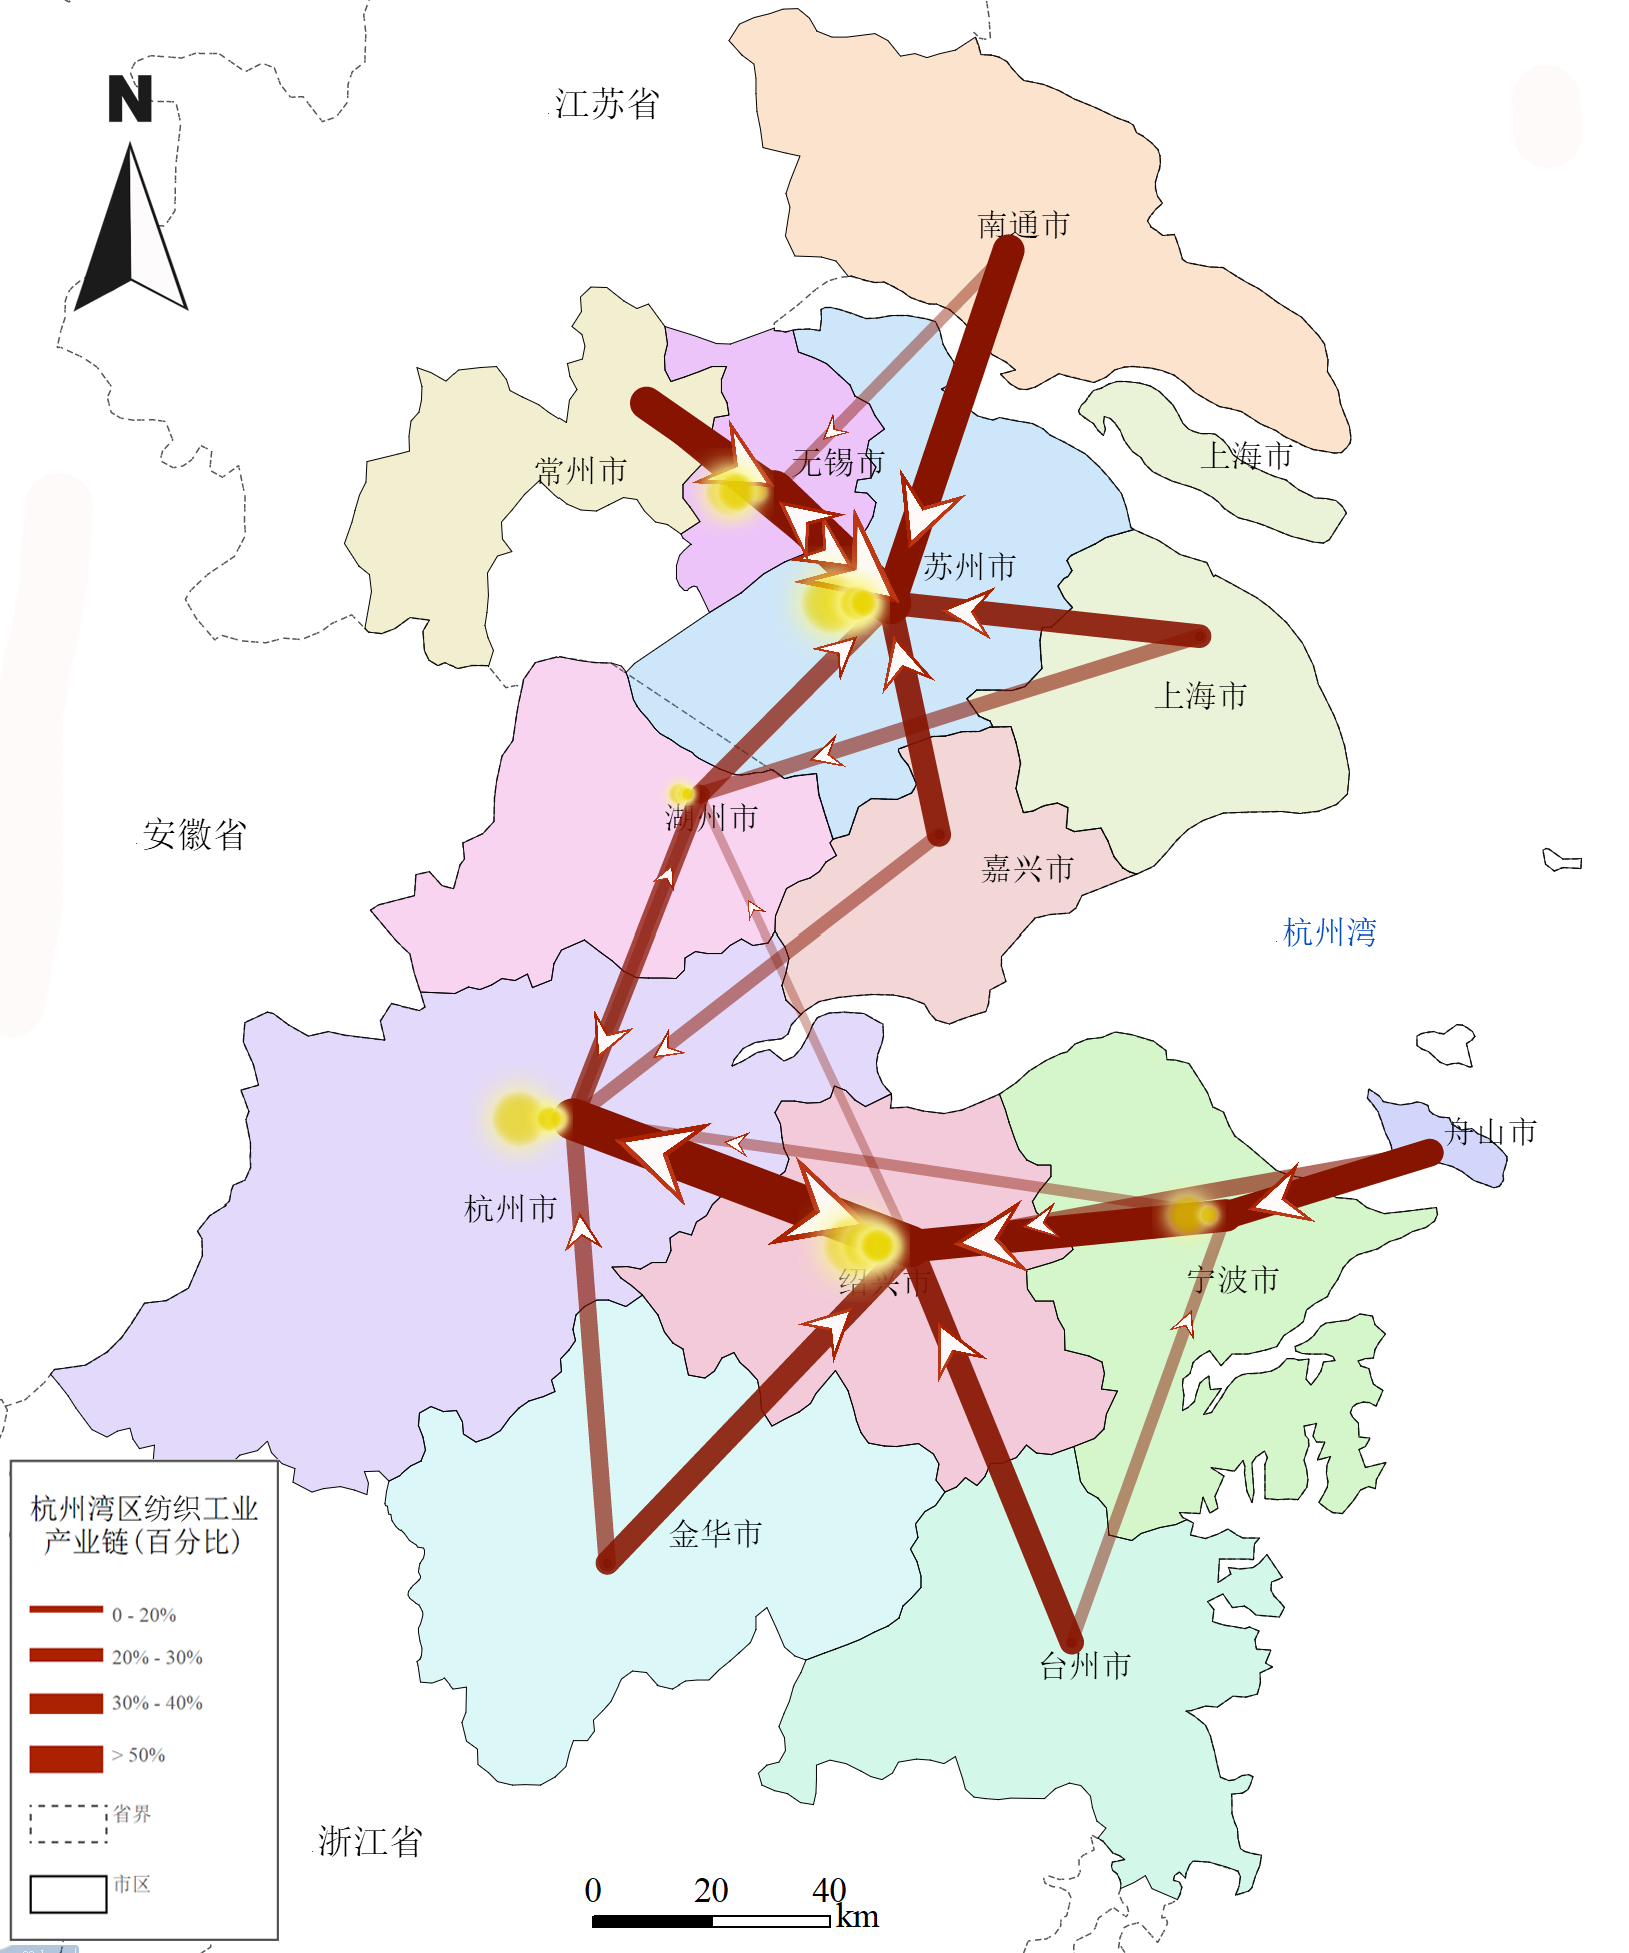
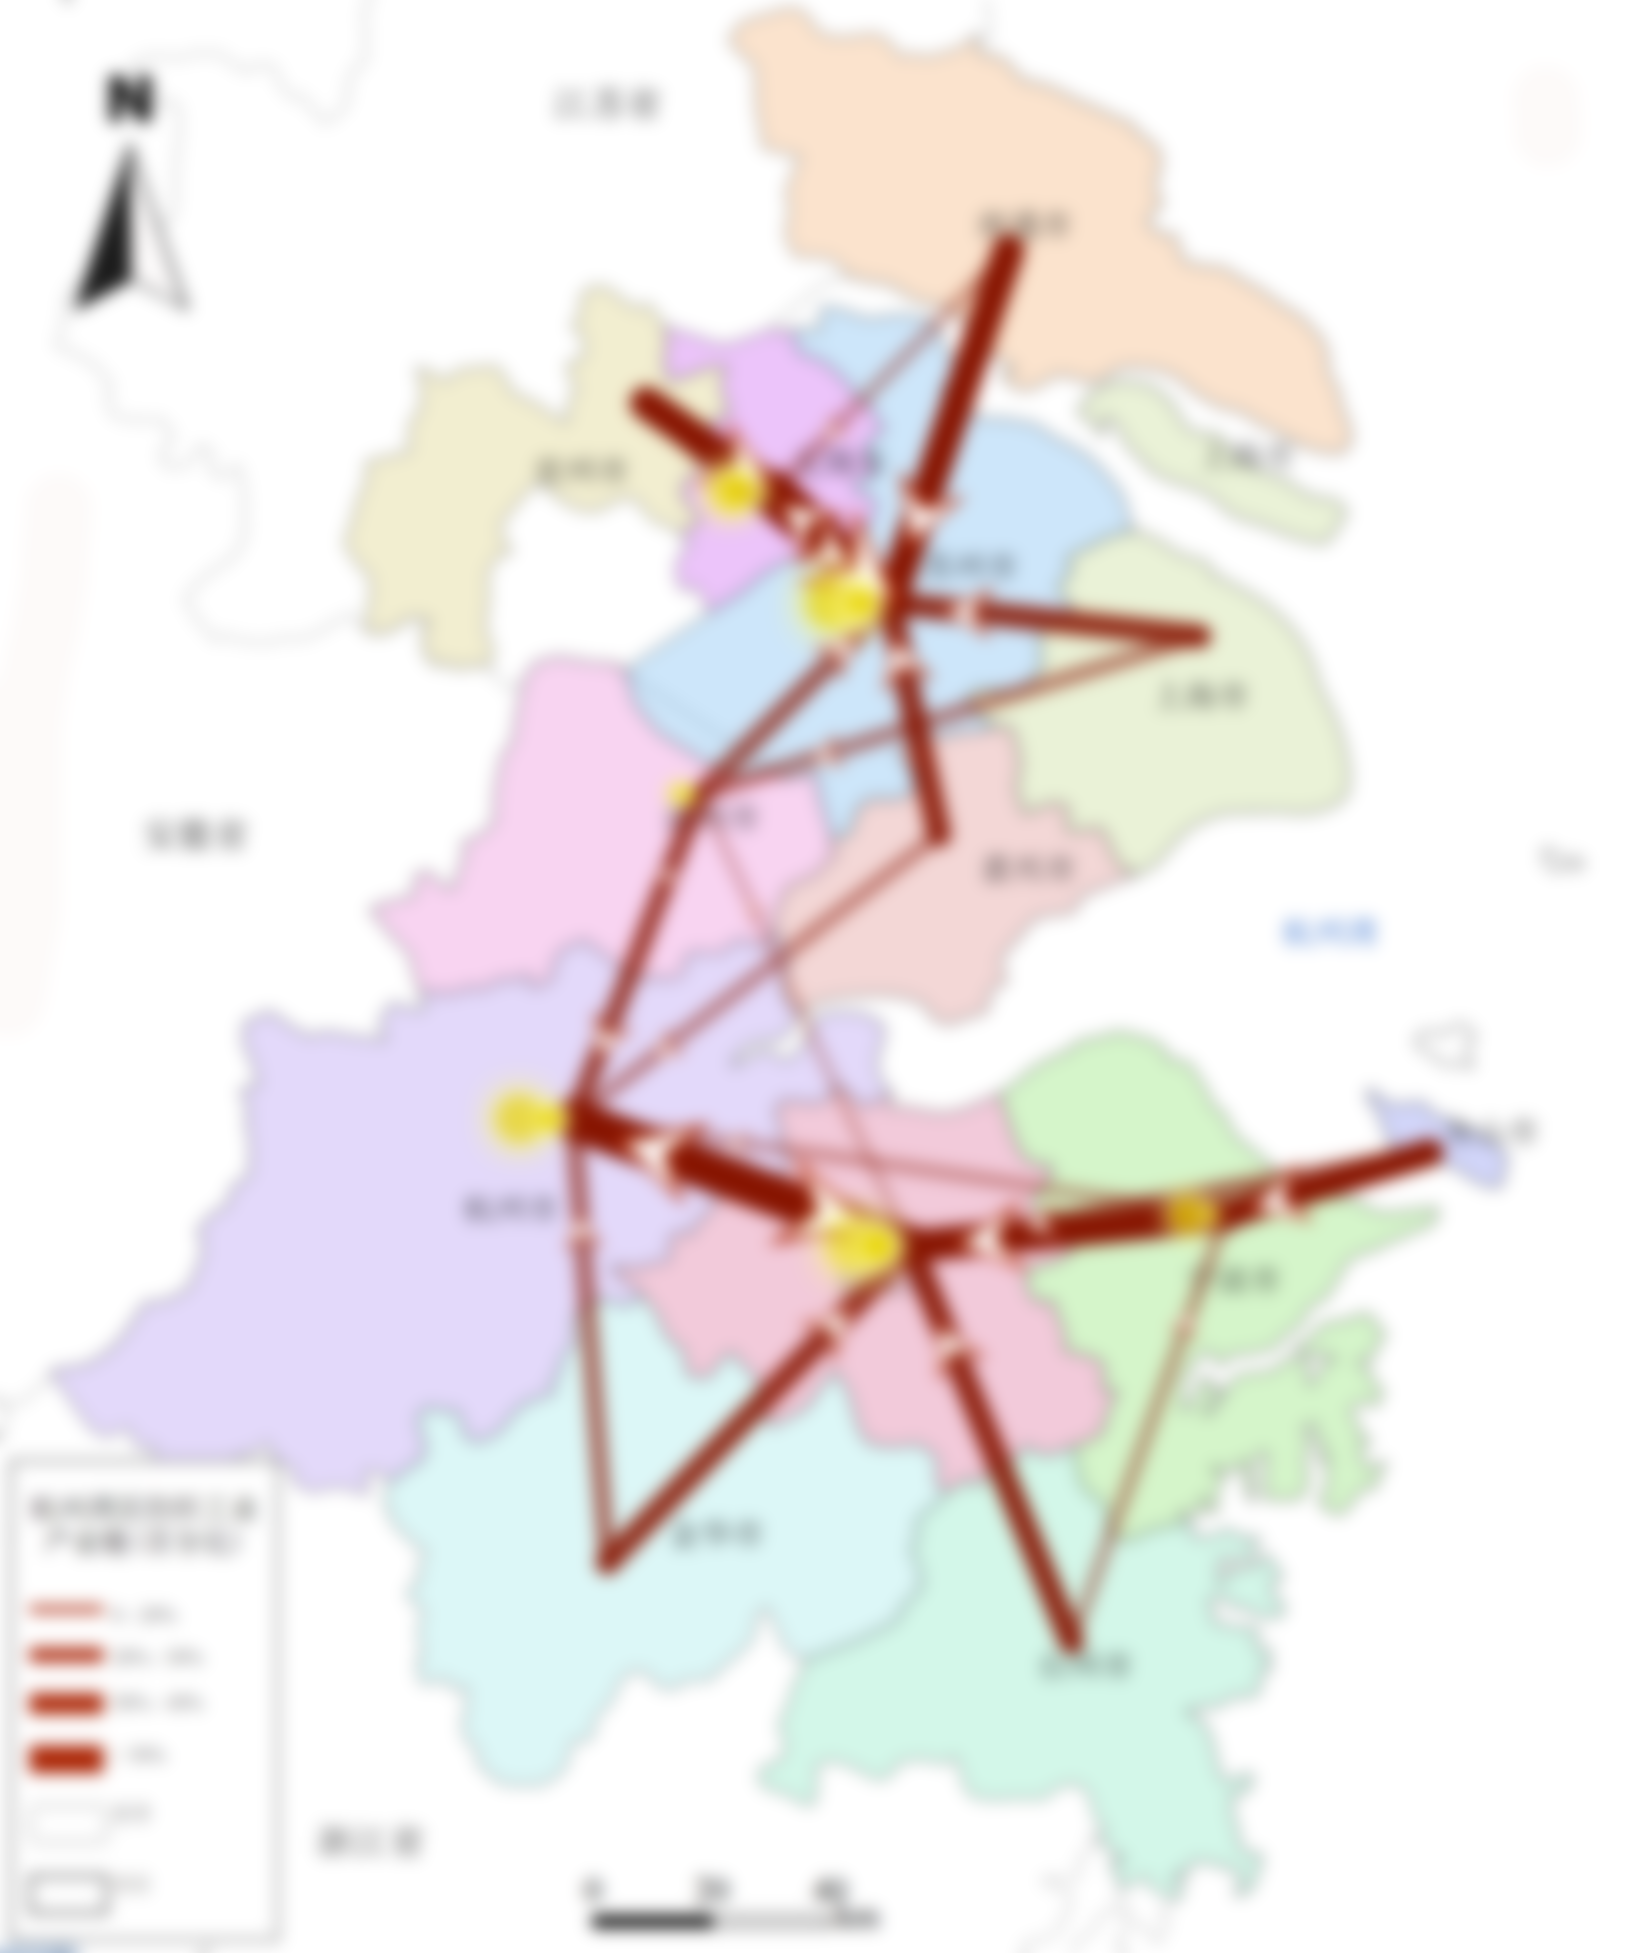
update

diff --git a/site/blogs/2018/2018-07-07-webgis-based-on-openlayers.html b/site/blogs/2018/2018-07-07-webgis-based-on-openlayers.html
@@ -122,7 +122,7 @@
 					<div id="highlighter_984651" class="syntaxhighlighter  js"><div class="toolbar"><span><a href="#" class="toolbar_item command_help help">?</a></span></div><table border="0" cellpadding="0" cellspacing="0"><tbody><tr><td class="gutter"><div class="line number1 index0 alt2">1</div><div class="line number2 index1 alt1">2</div><div class="line number3 index2 alt2">3</div><div class="line number4 index3 alt1">4</div><div class="line number5 index4 alt2">5</div><div class="line number6 index5 alt1">6</div><div class="line number7 index6 alt2">7</div><div class="line number8 index7 alt1">8</div><div class="line number9 index8 alt2">9</div><div class="line number10 index9 alt1">10</div><div class="line number11 index10 alt2">11</div><div class="line number12 index11 alt1">12</div><div class="line number13 index12 alt2">13</div><div class="line number14 index13 alt1">14</div><div class="line number15 index14 alt2">15</div><div class="line number16 index15 alt1">16</div><div class="line number17 index16 alt2">17</div><div class="line number18 index17 alt1">18</div><div class="line number19 index18 alt2">19</div><div class="line number20 index19 alt1">20</div><div class="line number21 index20 alt2">21</div><div class="line number22 index21 alt1">22</div><div class="line number23 index22 alt2">23</div><div class="line number24 index23 alt1">24</div><div class="line number25 index24 alt2">25</div><div class="line number26 index25 alt1">26</div><div class="line number27 index26 alt2">27</div><div class="line number28 index27 alt1">28</div><div class="line number29 index28 alt2">29</div><div class="line number30 index29 alt1">30</div><div class="line number31 index30 alt2">31</div></td><td class="code"><div class="container"><div class="line number1 index0 alt2"><code class="js keyword">var</code>&nbsp;<code class="js plain">styleCache_={}</code></div><div class="line number2 index1 alt1"><code class="js keyword">var</code>&nbsp;<code class="js plain">style_province&nbsp;=&nbsp;</code><code class="js keyword">function</code><code class="js plain">(feature,&nbsp;resolution){</code></div><div class="line number3 index2 alt2"><code class="js spaces">&nbsp;&nbsp;&nbsp;&nbsp;</code><code class="js keyword">var</code>&nbsp;<code class="js plain">value&nbsp;=&nbsp;</code><code class="js string">""</code></div><div class="line number4 index3 alt1"><code class="js spaces">&nbsp;&nbsp;&nbsp;&nbsp;</code><code class="js keyword">var</code>&nbsp;<code class="js plain">style&nbsp;=&nbsp;[&nbsp;</code><code class="js keyword">new</code>&nbsp;<code class="js plain">ol.style.Style({</code></div><div class="line number5 index4 alt2"><code class="js spaces">&nbsp;&nbsp;&nbsp;&nbsp;&nbsp;&nbsp;&nbsp;&nbsp;</code><code class="js plain">stroke:&nbsp;</code><code class="js keyword">new</code>&nbsp;<code class="js plain">ol.style.Stroke({color:&nbsp;</code><code class="js string">'#555'</code><code class="js plain">,&nbsp;lineDash:&nbsp;[1,2,3,4,5,6],&nbsp;lineCap:&nbsp;</code><code class="js string">'square'</code><code class="js plain">,&nbsp;lineJoin:&nbsp;</code><code class="js string">'bevel'</code><code class="js plain">,&nbsp;width:&nbsp;1.5}),</code></div><div class="line number6 index5 alt1"><code class="js spaces">&nbsp;&nbsp;&nbsp;&nbsp;</code><code class="js plain">})];</code></div><div class="line number7 index6 alt2"><code class="js spaces">&nbsp;&nbsp;&nbsp;&nbsp;</code><code class="js keyword">if</code>&nbsp;<code class="js plain">(</code><code class="js string">""</code>&nbsp;<code class="js plain">!==&nbsp;</code><code class="js keyword">null</code><code class="js plain">)&nbsp;{</code></div><div class="line number8 index7 alt1"><code class="js spaces">&nbsp;&nbsp;&nbsp;&nbsp;&nbsp;&nbsp;&nbsp;&nbsp;</code><code class="js keyword">var</code>&nbsp;<code class="js plain">labelText&nbsp;=&nbsp;String(</code><code class="js string">""</code><code class="js plain">);</code></div><div class="line number9 index8 alt2"><code class="js spaces">&nbsp;&nbsp;&nbsp;&nbsp;</code><code class="js plain">}&nbsp;</code><code class="js keyword">else</code>&nbsp;<code class="js plain">{</code></div><div class="line number10 index9 alt1"><code class="js spaces">&nbsp;&nbsp;&nbsp;&nbsp;&nbsp;&nbsp;&nbsp;&nbsp;</code><code class="js keyword">var</code>&nbsp;<code class="js plain">labelText&nbsp;=&nbsp;</code><code class="js string">""</code></div><div class="line number11 index10 alt2"><code class="js spaces">&nbsp;&nbsp;&nbsp;&nbsp;</code><code class="js plain">}</code></div><div class="line number12 index11 alt1"><code class="js spaces">&nbsp;&nbsp;&nbsp;&nbsp;</code><code class="js keyword">var</code>&nbsp;<code class="js plain">key&nbsp;=&nbsp;value&nbsp;+&nbsp;</code><code class="js string">"_"</code>&nbsp;<code class="js plain">+&nbsp;labelText</code></div><div class="line number13 index12 alt2">&nbsp;</div><div class="line number14 index13 alt1"><code class="js spaces">&nbsp;&nbsp;&nbsp;&nbsp;</code><code class="js keyword">if</code>&nbsp;<code class="js plain">(!styleCache_[key]){</code></div><div class="line number15 index14 alt2"><code class="js spaces">&nbsp;&nbsp;&nbsp;&nbsp;&nbsp;&nbsp;&nbsp;&nbsp;</code><code class="js keyword">var</code>&nbsp;<code class="js plain">text&nbsp;=&nbsp;</code><code class="js keyword">new</code>&nbsp;<code class="js plain">ol.style.Text({</code></div><div class="line number16 index15 alt1"><code class="js spaces">&nbsp;&nbsp;&nbsp;&nbsp;&nbsp;&nbsp;&nbsp;&nbsp;&nbsp;&nbsp;&nbsp;&nbsp;&nbsp;&nbsp;</code><code class="js plain">font:&nbsp;</code><code class="js string">'10px&nbsp;\'None\',&nbsp;sans-serif'</code><code class="js plain">,</code></div><div class="line number17 index16 alt2"><code class="js spaces">&nbsp;&nbsp;&nbsp;&nbsp;&nbsp;&nbsp;&nbsp;&nbsp;&nbsp;&nbsp;&nbsp;&nbsp;&nbsp;&nbsp;</code><code class="js plain">text:&nbsp;labelText,</code></div><div class="line number18 index17 alt1"><code class="js spaces">&nbsp;&nbsp;&nbsp;&nbsp;&nbsp;&nbsp;&nbsp;&nbsp;&nbsp;&nbsp;&nbsp;&nbsp;&nbsp;&nbsp;</code><code class="js plain">textBaseline:&nbsp;</code><code class="js string">"center"</code><code class="js plain">,</code></div><div class="line number19 index18 alt2"><code class="js spaces">&nbsp;&nbsp;&nbsp;&nbsp;&nbsp;&nbsp;&nbsp;&nbsp;&nbsp;&nbsp;&nbsp;&nbsp;&nbsp;&nbsp;</code><code class="js plain">textAlign:&nbsp;</code><code class="js string">"left"</code><code class="js plain">,</code></div><div class="line number20 index19 alt1"><code class="js spaces">&nbsp;&nbsp;&nbsp;&nbsp;&nbsp;&nbsp;&nbsp;&nbsp;&nbsp;&nbsp;&nbsp;&nbsp;&nbsp;&nbsp;</code><code class="js plain">offsetX:&nbsp;5,</code></div><div class="line number21 index20 alt2"><code class="js spaces">&nbsp;&nbsp;&nbsp;&nbsp;&nbsp;&nbsp;&nbsp;&nbsp;&nbsp;&nbsp;&nbsp;&nbsp;&nbsp;&nbsp;</code><code class="js plain">offsetY:&nbsp;3,</code></div><div class="line number22 index21 alt1"><code class="js spaces">&nbsp;&nbsp;&nbsp;&nbsp;&nbsp;&nbsp;&nbsp;&nbsp;&nbsp;&nbsp;&nbsp;&nbsp;&nbsp;&nbsp;</code><code class="js plain">fill:&nbsp;</code><code class="js keyword">new</code>&nbsp;<code class="js plain">ol.style.Fill({</code></div><div class="line number23 index22 alt2"><code class="js spaces">&nbsp;&nbsp;&nbsp;&nbsp;&nbsp;&nbsp;&nbsp;&nbsp;&nbsp;&nbsp;&nbsp;&nbsp;&nbsp;&nbsp;&nbsp;&nbsp;</code><code class="js plain">color:&nbsp;</code><code class="js string">'rgba(None,&nbsp;None,&nbsp;None,&nbsp;255)'</code></div><div class="line number24 index23 alt1"><code class="js spaces">&nbsp;&nbsp;&nbsp;&nbsp;&nbsp;&nbsp;&nbsp;&nbsp;&nbsp;&nbsp;&nbsp;&nbsp;&nbsp;&nbsp;</code><code class="js plain">}),</code></div><div class="line number25 index24 alt2"><code class="js spaces">&nbsp;&nbsp;&nbsp;&nbsp;&nbsp;&nbsp;&nbsp;&nbsp;&nbsp;&nbsp;&nbsp;&nbsp;</code><code class="js plain">});</code></div><div class="line number26 index25 alt1"><code class="js spaces">&nbsp;&nbsp;&nbsp;&nbsp;&nbsp;&nbsp;&nbsp;&nbsp;</code><code class="js plain">styleCache_[key]&nbsp;=&nbsp;</code><code class="js keyword">new</code>&nbsp;<code class="js plain">ol.style.Style({</code><code class="js string">"text"</code><code class="js plain">:&nbsp;text})</code></div><div class="line number27 index26 alt2"><code class="js spaces">&nbsp;&nbsp;&nbsp;&nbsp;</code><code class="js plain">}</code></div><div class="line number28 index27 alt1"><code class="js spaces">&nbsp;&nbsp;&nbsp;&nbsp;</code><code class="js keyword">var</code>&nbsp;<code class="js plain">allStyles&nbsp;=&nbsp;[styleCache_[key]];</code></div><div class="line number29 index28 alt2"><code class="js spaces">&nbsp;&nbsp;&nbsp;&nbsp;</code><code class="js plain">allStyles.push.apply(allStyles,&nbsp;style);</code></div><div class="line number30 index29 alt1"><code class="js spaces">&nbsp;&nbsp;&nbsp;&nbsp;</code><code class="js keyword">return</code>&nbsp;<code class="js plain">allStyles;</code></div><div class="line number31 index30 alt2"><code class="js plain">};</code></div></div></td></tr></tbody></table></div>
 					</pre>
 					<p>至此，WebGIS地图制作完成，可以交差了，本次任务结束。</p>
-					<p>附2张示例图。</p>
+					<p>附2张示例图（保密起见，图像做了模糊处理）。</p>
 					<p class="imginblog"><img src="2018-07-07-webgis-based-on-openlayers/img05.png"></p>
 					<p class="imginblog"><img src="2018-07-07-webgis-based-on-openlayers/img06.png"></p>
 					<p></p>
